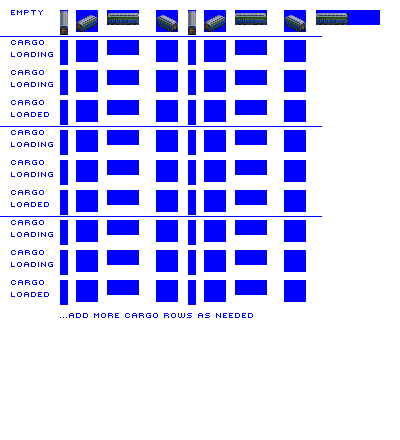
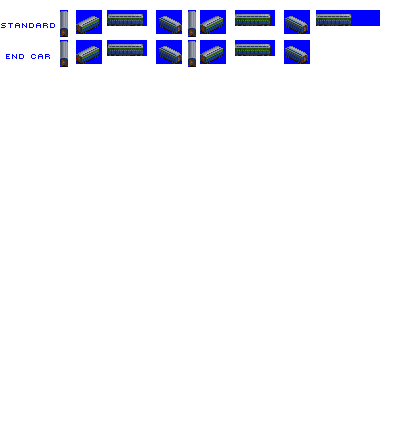
Change: 9/8 long sprites for gen 1 brit passenger car (closes #6531)

Changed region(s): [[0.0, 0.0, 0.9, 0.7386], [0.03, 0.2955, 0.12, 0.6795], [0.24, 0.7091, 0.3, 0.7386]]

diff --git a/src/vehicles/passenger_cars.py b/src/vehicles/passenger_cars.py
@@ -30,7 +30,7 @@ consist.add_unit(Wagon(type_config = type_config,
                         consist = consist,
                         capacity_pax = 40,
                         weight = 100,
-                        vehicle_length = 8,
+                        vehicle_length = 9,
                         loading_speed = 20))              
 
 consist.add_model_variant(intro_date=0,
